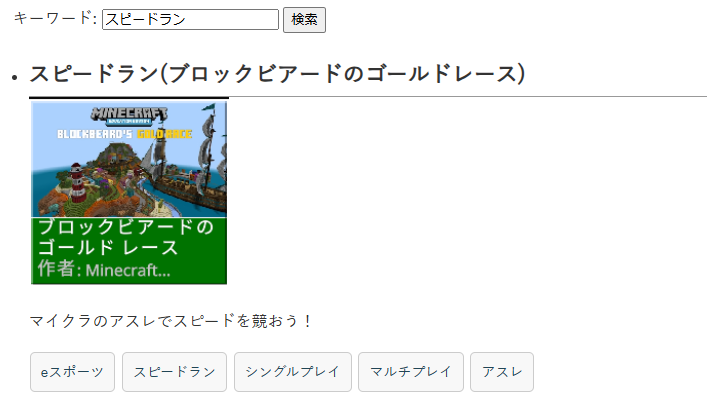
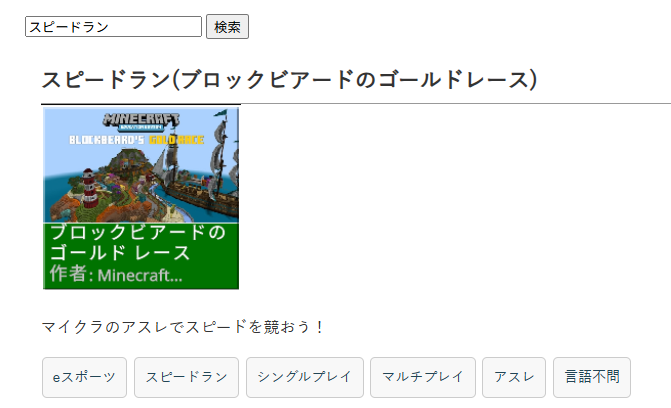
おすすめワールドルーレットを追加

diff --git a/roulette.js b/roulette.js
@@ -1,0 +1,163 @@
+const canvas = document.getElementById('rouletteCanvas');
+const ctx = canvas.getContext('2d');
+const spinButton = document.getElementById('spinButton');
+const resultDiv = document.getElementById('result');
+const jsonFilePath = 'worlds.json?20250423';
+
+let data = [];
+let angle = 0;
+let spinning = false;
+let spinTimeout;
+const friction = 0.99; // 減速率
+let spinSpeed = 0;
+
+const centerX = canvas.width / 2;
+const centerY = canvas.height / 2;
+const radius = Math.min(centerX, centerY) - 20;
+
+const colors = ['#ffc300', '#ff5e63', '#ff2693', '#ba00a2', '#2c00d9']; // 使用する色の配列（16進数カラーコード）
+let colorIndex = 0; // 現在の色のインデックス
+
+async function loadWorlds() {
+    try {
+        const response = await fetch(jsonFilePath);
+        data = await response.json();
+           // 各ワールドデータに色を追加
+        data.forEach(world => {
+
+            //world.color = getRandomColor();
+            if (colorIndex < colors.length)
+            { }
+            else
+            {
+                colorIndex = 0;
+            }
+            const currentColor = colors[colorIndex % colors.length]; // 現在の色を取得（配列の長さを超えないように剰余演算子を使用）
+            world.color = currentColor;
+            colorIndex++;
+        });
+        drawRoulette();
+    } catch (error) {
+        console.error('JSONファイルの読み込みエラー:', error);
+        resultDiv.textContent = 'データの読み込みに失敗しました。';
+    }
+}
+
+function drawRoulette() {
+    ctx.clearRect(0, 0, canvas.width, canvas.height);
+    if (data.length === 0) return;
+
+    const numSegments = data.length;
+    const anglePerSegment = (2 * Math.PI) / numSegments;
+
+    data.forEach((world, index) => {
+        const startAngle = angle + index * anglePerSegment;
+        const endAngle = angle + (index + 1) * anglePerSegment;
+        const segmentAngle = startAngle + anglePerSegment / 2;
+
+        // 扇形を描画
+        ctx.beginPath();
+        ctx.arc(centerX, centerY, radius, startAngle, endAngle, false);
+        ctx.lineTo(centerX, centerY);
+        ctx.fillStyle = world.color;
+        ctx.fill();
+        ctx.stroke(); // 境界線
+
+        // テキストを描画
+        ctx.save();
+        ctx.translate(centerX + Math.cos(segmentAngle) * (radius * 0.7), centerY + Math.sin(segmentAngle) * (radius * 0.7));
+        ctx.rotate(segmentAngle); // テキストを円の外側に向ける
+        ctx.fillStyle = '#fff';
+        ctx.font = '12px sans-serif';
+        ctx.textAlign = 'center';
+        ctx.fillText(world.title, 0, 0);
+        ctx.restore();
+    });
+
+    // 針を描画
+    ctx.beginPath();
+    ctx.moveTo(centerX, centerY - radius - 10);
+    ctx.lineTo(centerX - 10, centerY - radius - 25);
+    ctx.lineTo(centerX + 10, centerY - radius - 25);
+    ctx.fillStyle = 'red';
+    ctx.fill();
+    ctx.stroke();
+}
+
+function spin() {
+    if (spinning) return;
+    spinning = true;
+    spinSpeed = Math.random() * 0.2 + 0.1; // 初期スピン速度
+    resultDiv.textContent = '';
+    animate();
+}
+
+function animate() {
+    angle += spinSpeed;
+    spinSpeed *= friction;
+
+    drawRoulette();
+
+    if (spinSpeed < 0.005) {
+        spinning = false;
+        determineWinner();
+    } else {
+        requestAnimationFrame(animate);
+    }
+}
+
+function determineWinner() {
+    if (data.length === 0) return;
+    const numSegments = data.length;
+    const anglePerSegment = (2 * Math.PI) / numSegments;
+    // 矢印が指す角度 (真上を基準とする場合)
+    const arrowAngle = Math.PI * 1.5; // -90度
+
+    // 停止時の角度を矢印の基準に合わせる
+    const normalizedAngle = (2 * Math.PI - (angle % (2 * Math.PI))) % (2 * Math.PI);
+    const rawWinningIndex = Math.floor(normalizedAngle / anglePerSegment);
+
+    // 調整: 矢印の角度を考慮して当選インデックスを計算
+    let winningSegmentIndex = Math.floor((arrowAngle - (angle % (2 * Math.PI)) + 2 * Math.PI) % (2 * Math.PI) / anglePerSegment) % numSegments;
+
+    //resultDiv.textContent = `当たり: ${data[winningSegmentIndex].title}`;
+    displayResults(data[winningSegmentIndex], resultDiv);
+}
+
+function displayResults(results, container) {
+    container.innerHTML = ''; // 既存の結果をクリア
+
+    const ul = document.createElement('ul');
+    const li = document.createElement('li');
+    li.innerHTML = `
+        <h2>${escapeHtml(results.title)}</h2>
+        <a href="${escapeHtml(results.worldlink)}" target="MIE">
+        <img src="${escapeHtml(results.image)}" alt="${escapeHtml(results.title)}" width="200"></a>
+        <p>${escapeHtml(results.description)}</p>
+    `;
+    ul.appendChild(li);
+    container.appendChild(ul);
+   
+}
+
+function getRandomColor() {
+    const letters = '0123456789ABCDEF';
+    let color = '#';
+    for (let i = 0; i < 6; i++) {
+        color += letters[Math.floor(Math.random() * 16)];
+    }
+    return color;
+}
+
+function escapeHtml(unsafe) {
+    return unsafe
+        .replace(/&/g, "&amp;")
+        .replace(/</g, "&lt;")
+        .replace(/>/g, "&gt;")
+        .replace(/"/g, "&quot;")
+        .replace(/'/g, "&#039;");
+}
+
+spinButton.addEventListener('click', spin);
+
+loadWorlds();

diff --git a/roulette.html b/roulette.html
@@ -6,28 +6,28 @@
     <meta name="keywords" content="Minecraft Education,マインクラフト,教育版マインクラフト">
     <meta name="description" content="教育版マインクラフトのワールド情報サイトです">
     <meta name="viewport" content="width=device-width, initial-scale=1.0">
-    <link rel="stylesheet" href="index.css?20250423">
+    <link rel="stylesheet" href="article.css">
 </head>
 <body>
     <div id="outer">
         <header>
-            <div id="header-container">
-                <div id="head-inner">
-                    <h1>Minecraft Education ワールド検索サイト</h1>
+            <div id="head-inner">
+                <div id="header-container">
+                    <div id="logo"><a href="index.html">Minecraft Education ワールド検索サイト</a></div>
                     <p class="description">「どのワールドをやったらいいかわからない」という教育版マインクラフトのお悩みを解決する検索サイトです</p>
                 </div>
             </div>
         </header>
         <div id="content-wrapper">
             <main>
-                <div id="topmenu">
-                    <a href="roulette.html">今日の気分はこれ！おすすめワールドルーレット！</a>
-                </div>
-                <div id="search-form">
-                    <input type="text" id="keyword" name="keyword">
-                    <button id="search-button">検索</button>
-                </div>
-                <div id="search-results">
+                <div id="inner">
+                    <h1>おすすめワールドルーレット</h1>
+                    <canvas id="rouletteCanvas" width="400" height="400"></canvas>
+                    <div class="controls">
+                        <button id="spinButton">スピン！</button>
+                        <p>おすすめのワールドは・・・</p>
+                        <div id="result"></div>
+                    </div>
                 </div>
             </main>
             <aside>
@@ -48,6 +48,7 @@
         </div>
         <footer>© 2025 FullAmigo フラミーゴ</footer>
     </div>
-    <script src="script.js?20250423"></script>
+    <script src="roulette.js"></script>
+
 </body>
 </html>

diff --git a/releasenote.html b/releasenote.html
@@ -6,14 +6,14 @@
     <meta name="keywords" content="Minecraft Education,マインクラフト,教育版マインクラフト">
     <meta name="description" content="Minecraft Education ワールド検索サイト">
     <meta name="viewport" content="width=device-width, initial-scale=1.0">
-    <link rel="stylesheet" href="article.css">
+    <link rel="stylesheet" href="article.css?20250423">
 </head>
 <body>
     <div id="outer">
         <header>
             <div id="head-inner">
                 <div id="header-container">
-                    <div id="logo"><a href="/">Minecraft Education ワールド検索サイト</a></div>
+                    <div id="logo"><a href="index.html">Minecraft Education ワールド検索サイト</a></div>
                     <p class="description">「どのワールドをやったらいいかわからない」という教育版マインクラフトのお悩みを解決する検索サイトです</p>
                 </div>
             </div>
@@ -22,6 +22,8 @@
             <main>
                 <div id="inner">
                     <h1>リリースノート</h1>
+                    <h3>2025/04/23</h3>
+                    <p>・「おすすめワールドルーレット」を追加しました</p>
                     <h3>2025/04/16</h3>
                     <p>・英語のワールドを3つ追加しました</p>
                     <h3>2025/04/13</h3>
@@ -37,9 +39,10 @@
                     <div class="side">
                         <ul>
                             <li><a href="index.html">ホーム</a></li>
+                            <li><a href="roulette.html">おすすめワールドルーレット</a></li>
                             <li><a href="houtouse.html">このサイトの使い方</a></li>
                             <li><a href="releasenote.html">リリースノート</a></li>
-                            <li><a href="https://pro.form-mailer.jp/fms/a6951dd5169607" target="SendMessage">お問い合わせ</a></li>
+                            <li><a href="https://ssl.form-mailer.jp/fms/fc7fb373853072" target="SendMessage">お問い合わせ</a></li>
                         </ul>
                     </div>
                 </div>

diff --git a/houtouse.html b/houtouse.html
@@ -13,7 +13,7 @@
         <header>
             <div id="head-inner">
                 <div id="header-container">
-                    <div id="logo"><a href="/">Minecraft Education ワールド検索サイト</a></div>
+                    <div id="logo"><a href="index.html">Minecraft Education ワールド検索サイト</a></div>
                     <p class="description">「どのワールドをやったらいいかわからない」という教育版マインクラフトのお悩みを解決する検索サイトです</p>
                 </div>
             </div>
@@ -23,7 +23,7 @@
                 <div id="inner">
                     <h1>このサイトの使い方</h1>
                     <p>このサイトに掲載されているワールドは筆者が実際にやってみておすすめできるものを掲載しています。バージョンアップなどでワールドがうまく動かないことはあるかもしれないのでご了承ください。</p>
-                    <img src="images/howto00.png" width="500px" />
+                    <img src="images/howto00.png?20250423" width="500px" />
                     <h3>ワールドを探す</h3>
                     <p>
                         探したいワールドのキーワードを入力して検索ボタンをクリックします<br />
@@ -58,9 +58,10 @@
                     <div class="side">
                         <ul>
                             <li><a href="index.html">ホーム</a></li>
+                            <li><a href="roulette.html">おすすめワールドルーレット</a></li>
                             <li><a href="houtouse.html">このサイトの使い方</a></li>
                             <li><a href="releasenote.html">リリースノート</a></li>
-                            <li><a href="https://pro.form-mailer.jp/fms/a6951dd5169607" target="SendMessage">お問い合わせ</a></li>
+                            <li><a href="https://ssl.form-mailer.jp/fms/fc7fb373853072" target="SendMessage">お問い合わせ</a></li>
                         </ul>
                     </div>
                 </div>

diff --git a/script.js b/script.js
@@ -2,8 +2,9 @@
     const searchButton = document.getElementById('search-button');
     const keywordInput = document.getElementById('keyword');
     const searchResultsContainer = document.getElementById('search-results');
-    const jsonFilePath = 'worlds.json?20250416';
+    const jsonFilePath = 'worlds.json?20250423';
     let jsonData = []; // JSONデータを格納する変数
+
 
     // JSONデータの読み込み
     fetch(jsonFilePath)
@@ -89,6 +90,7 @@
                 event.preventDefault(); // リンクのデフォルトの動作をPrevent
                 const tag = this.dataset.tag; // data-tag属性からタグを取得
                 keywordInput.value = tag; // 検索キーワード入力欄にタグを設定
+                keywordInput.focus();
                 searchButton.click(); // 検索ボタンをクリック
             });
         });
@@ -103,4 +105,7 @@
             .replace(/"/g, "&quot;")
             .replace(/'/g, "&#039;");
     }
+
+ 
+
 });

diff --git a/index.css b/index.css
@@ -21,6 +21,24 @@ header {
     padding: 25px 0;
 }
 
+#topmenu
+{
+    font-size: 18px;
+    font-weight: bold;
+    margin: 0;
+    padding: 0px 0px 15px 10px;
+}
+
+#topmenu a {
+    text-decoration: none;
+    color: #214555;
+    font-weight: bold;
+}
+
+#topmenu a:hover {
+    text-decoration: underline;
+}
+
 h1 {
     font-size: 26px;
     font-weight: bold;
@@ -29,16 +47,6 @@ h1 {
     color: #f3e6d2;
 }
 
-    h1 a {
-        font-weight: bold;
-        color: #f3e6d2;
-        text-decoration: none;
-    }
-
-        h1 a:hover {
-            color: #e8f3f9;
-            text-decoration: none;
-        }
 
 .description {
     line-height: 1.2;
@@ -73,7 +81,7 @@ ul {
 }
 
 li {
-    list-style: disc;
+    list-style: none;
 }
 
 p {
@@ -199,6 +207,9 @@ blockquote {
         color: #333;
     }
 
+    #search-form {
+        padding: 20px 10px 0 10px;
+    }
     #search-results {
         padding: 20px 10px 0 10px;
     }

diff --git a/article.css b/article.css
@@ -50,6 +50,11 @@ h1 {
     font-size: 22px;
     margin: 0;
     padding: 4px 0;
+}
+h2 {
+    font-size: 22px;
+    margin: 0;
+    padding: 4px 0;
     border-bottom: 1px solid #999;
 }
 
@@ -72,7 +77,7 @@ ul {
 }
 
 li {
-    list-style: disc;
+    list-style: none;
 }
 
 p {
@@ -95,6 +100,7 @@ hr {
 a {
     font-weight: normal;
 }
+
 
 aside {
 }
